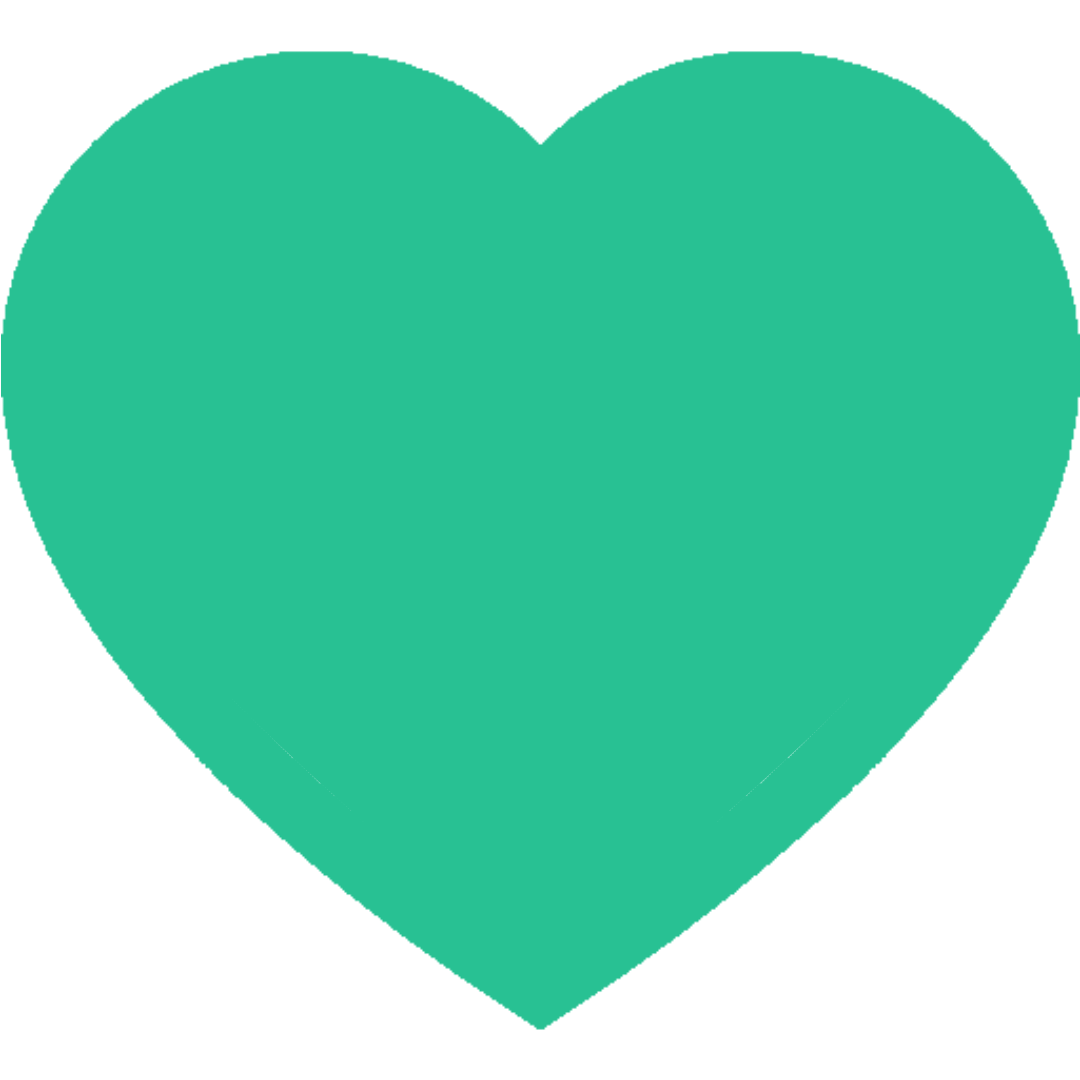
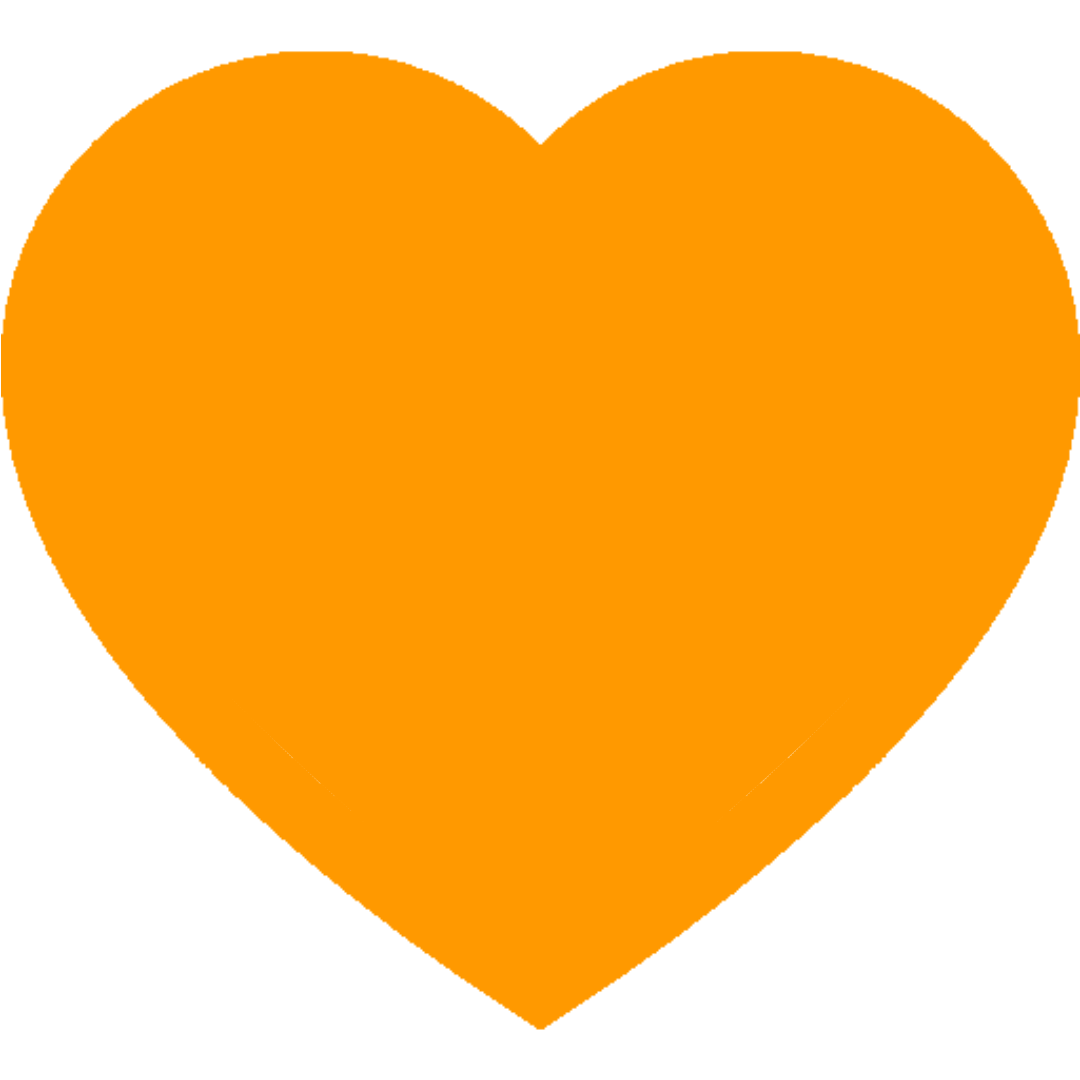
Add files via upload

diff --git a/index.html b/index.html
@@ -25,7 +25,7 @@
       align-items: center;
       padding: 0.5rem 0;
       background-color: #2b2b2b;
-      border-bottom: 2px solid #28C193;
+      border-bottom: 2px solid #ff9900;
     }
     .logo-container img { height: 100px; }
     .categories {
@@ -40,12 +40,12 @@
       padding: 0.4rem 1rem;
       border: none;
       border-radius: 12px;
-      background-color: #28C193;
+      background-color: #ff9900;
       color: #1f1f1f;
       cursor: pointer;
       transition: background-color 0.3s;
     }
-    .categories button:hover { background-color: #2CFFC0; }
+    .categories button:hover { background-color: #ffa733; }
 
     .gallery {
       column-count: 2;
@@ -80,7 +80,7 @@
       padding: 0.5rem 1rem 0.2rem;
       font-size: 0.75rem;
       text-align: center;
-      color: #28C193;
+      color: #ff9900;
     }
 
     .like-section {
@@ -140,7 +140,7 @@
 
     .nav-bar button.active,
     .nav-bar button:hover {
-      color: #28C193;
+      color: #ff9900;
     }
 
     .toast {
@@ -148,7 +148,7 @@
       top: 10px;
       left: 50%;
       transform: translateX(-50%);
-      background: #28C193;
+      background: #ff9900;
       color: #1f1f1f;
       padding: 0.6rem 1rem;
       border-radius: 10px;
@@ -199,7 +199,7 @@
     display: flex;
     justify-content: space-between;
     align-items: center;
-    color: #28C193;
+    color: #ff9900;
   }
 
   .icons img {
@@ -215,7 +215,7 @@
 
   #closeModalBtn {
     margin-top: 1rem;
-    background: #28C193;
+    background: #ff9900;
     color: #1f1f1f;
     border: none;
     padding: 0.6rem 1.5rem;
